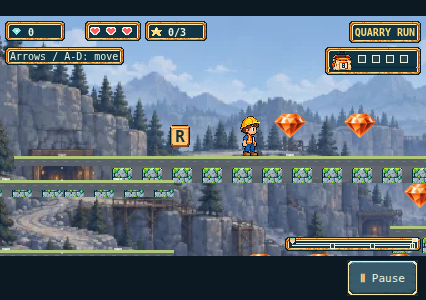
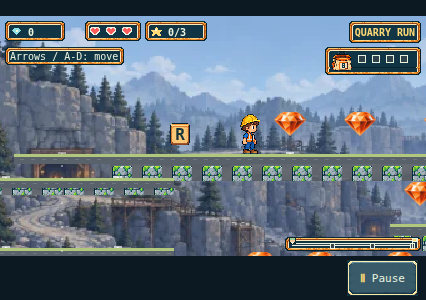
fix: separate Quarry rewards and show terrace support

diff --git a/tests/browser.spec.ts b/tests/browser.spec.ts
@@ -4416,7 +4416,7 @@ for (const level of LEVELS) test(`compact HUD renderer fixture: ${level.id} iden
           specialTotal: [0, 3, 12, 3, 3][state], collectedSpecials: new Set(Array.from({ length: [0, 1, 10, 3, 3][state] }, (_, i) => 's' + i)),
           health: [3, 2, 1, 0, 3][state], healthFlashPip: state === 1 ? 2 : null, healthFlashSeconds: state === 1 ? 1 : 0 };
         ctx.imageSmoothingEnabled = false;
-        const camera = new Camera({ width: 426, height: 240, worldWidth: level.width, worldHeight: level.height });
+        const camera = new Camera({ width: 426, height: 240, worldWidth: level.width, worldHeight: level.height, vertical: level.progressAxis === 'y' });
         const ground = level.progressAxis === 'y' ? level.start.y : surfaceY(level, level.start.x);
         camera.update(level.start.x, ground - 34);
         drawWorld(ctx, assets, level, camera, undefined, undefined, platformBodiesAt(level.platforms, 0), 0, true);
@@ -5183,10 +5183,20 @@ test('Quarry vertical journey: native floor finish, actual ROCK return, all side
     };
   });
   await startQuarryPilot(page);
+  const framingObservations: object[] = [];
   const capture = async (name: string) => {
     await page.evaluate(() => { (window as unknown as { quarryPilot: { frozen: boolean } }).quarryPilot.frozen = true; });
     for (const viewport of [{ width: 426, height: 300 }, { width: 320, height: 240 }, { width: 1366, height: 768 }]) {
       await page.setViewportSize(viewport); await twoFrames(page);
+      await expectClearViewport(page);
+      const frame = await page.evaluate(() => document.querySelector('#status')!.textContent!.includes('Playing')
+        ? (window as unknown as { quarryPilot: { frame: { henry: { y: number; height: number }; supports: object[] } } }).quarryPilot.frame : null);
+      if (frame) {
+        expect(frame.supports.length).toBeGreaterThan(0);
+        expect(frame.henry.y).toBeGreaterThanOrEqual(59);
+        expect(frame.henry.y + frame.henry.height).toBeLessThanOrEqual(221);
+        framingObservations.push({ name, viewport, ...frame });
+      }
       await info.attach(`${name}-${viewport.width}`, { body: await page.screenshot({ path: info.outputPath(`${name}-${viewport.width}.png`) }), contentType: 'image/png' });
     }
     await page.setViewportSize({ width: 426, height: 300 }); await twoFrames(page);
@@ -5234,6 +5244,8 @@ test('Quarry vertical journey: native floor finish, actual ROCK return, all side
   await expect(page.locator('#status')).toContainText('X 300 Y 106');
   await expect(page.locator('#status')).toContainText('Letter bag: 4/4');
   expect(errors).toEqual([]);
+  expect(framingObservations.length).toBeGreaterThan(40);
+  await info.attach('journey-framing-observations', { body: JSON.stringify(framingObservations), contentType: 'application/json' });
   await info.attach('quarry-observations', { body: JSON.stringify(await page.evaluate(() => ({
     browser: navigator.userAgent, pilot: (window as unknown as { quarryPilot: object }).quarryPilot,
   }))), contentType: 'application/json' });
@@ -5259,4 +5271,93 @@ test('Quarry three lifts: actual downward boarding and exit at every dock', { lo
     if (/down$/.test(target.tag)) await info.attach(target.tag, { body: await page.locator('#game').screenshot(), contentType: 'image/png' });
   }
   await quarryFinish(page);
+});
+
+test('selected Quarry map thumbnail shows its real starting rim support', async ({ page }, info) => {
+  await page.addInitScript(() => {
+    const original = CanvasRenderingContext2D.prototype.drawImage;
+    CanvasRenderingContext2D.prototype.drawImage = function(image: CanvasImageSource, ...args: number[]) {
+      if (this.canvas.id === 'game' && image instanceof HTMLCanvasElement && args[0] === 287 && args[1] === 84
+        && args[2] === 126 && args[3] === 71) {
+        const pixels = image.getContext('2d')!.getImageData(0, 0, 426, 240).data;
+        let rimPixels = 0;
+        for (let y = 120; y <= 160; y++) for (let x = 150; x <= 350; x++) {
+          const at = (y * 426 + x) * 4;
+          if (pixels[at] === 177 && pixels[at + 1] === 199 && pixels[at + 2] === 125) rimPixels++;
+        }
+        Object.assign(window, { quarryMapPreview: { width: image.width, height: image.height, rimPixels,
+          image: image.toDataURL() } });
+      }
+      return Reflect.apply(original, this, [image, ...args]);
+    };
+  });
+  await openAdventure(page, '/?scene=adventure');
+  await page.getByRole('button', { name: 'QUARRY RUN', exact: true }).click();
+  const preview = await page.evaluate(() => (window as unknown as { quarryMapPreview: {
+    width: number; height: number; rimPixels: number; image: string } }).quarryMapPreview);
+  expect(preview.width).toBe(426); expect(preview.height).toBe(240);
+  expect(preview.rimPixels).toBeGreaterThan(80);
+  await info.attach('quarry-selected-map-preview', { body: Buffer.from(preview.image.split(',')[1], 'base64'), contentType: 'image/png' });
+  await info.attach('quarry-selected-map-window', { body: await page.screenshot(), contentType: 'image/png' });
+});
+
+test('Quarry native landing visibility: actual rest and approach frames reveal each next landing before stepping off', { lock: 'native-route' }, async ({ page }, info) => {
+  test.setTimeout(120_000);
+  await startQuarryPilot(page);
+  const nextIds = ['quarry-terrace-1', 'quarry-terrace-2', 'quarry-terrace-3', 'quarry-upper',
+    'quarry-terrace-4', 'quarry-terrace-5', 'quarry-terrace-6', 'quarry-mine',
+    'quarry-terrace-7', 'quarry-terrace-8', 'quarry-terrace-9', 'floor'];
+  const route = [{ x: 490, y: 140, tag: 'rim approach' }, ...QUARRY_DESCENT.slice(0, -1)];
+  const samples: object[] = [], failures: object[] = [];
+  for (const [index, target] of route.entries()) {
+    await driveQuarry(page, [target]);
+    await page.evaluate(() => { (window as unknown as { quarryPilot: { frozen: boolean } }).quarryPilot.frozen = true; });
+    const id = nextIds[index];
+    const platform = QUARRY_RUN.platforms!.find(platform => platform.id === id);
+    const next = platform ? { x: platform.from.x, y: platform.from.y, width: platform.width }
+      : { x: 0, y: 980, width: QUARRY_RUN.width };
+    for (const viewport of [{ width: 426, height: 300 }, { width: 320, height: 240 }, { width: 1366, height: 768 }]) {
+      await page.setViewportSize(viewport); await twoFrames(page);
+      await expectClearViewport(page);
+      const sample = await page.evaluate(({ next, id }) => {
+        const frame = (window as unknown as { quarryPilot: { frame: { status: string; x: number; feet: number;
+          camera: { x: number; y: number }; henry: { x: number; y: number; width: number; height: number };
+          supports: { x: number; y: number; width: number }[] } } }).quarryPilot.frame;
+        const ctx = document.querySelector<HTMLCanvasElement>('#game')!.getContext('2d')!;
+        const drawn = frame.supports.find(support => Math.abs(support.x + frame.camera.x - next.x) < 1.1
+          && Math.abs(support.y + frame.camera.y - next.y) < 1.1 && support.width === next.width);
+        const edge = drawn ?? { x: next.x - frame.camera.x, y: next.y - frame.camera.y, width: next.width };
+        const left = Math.max(0, Math.ceil(edge.x + 2)), right = Math.min(426, Math.floor(edge.x + edge.width - 2));
+        let capPixels = 0;
+        if (edge.y >= 0 && edge.y + 4 < 240 && right > left) {
+          const rgba = ctx.getImageData(left, Math.floor(edge.y), right - left, 4).data;
+          for (let pixel = 0; pixel < rgba.length; pixel += 4) {
+            if ((rgba[pixel] === 177 && rgba[pixel + 1] === 199 && rgba[pixel + 2] === 125)
+              || (rgba[pixel] === 154 && rgba[pixel + 1] === 171 && rgba[pixel + 2] === 150)) capPixels++;
+          }
+        }
+        return { ...frame, id, next, edge, drawn: Boolean(drawn), visibleWidth: right - left, capPixels };
+      }, { next, id });
+      expect(sample.status).toContain('Playing');
+      expect(Math.abs(sample.feet - target.y)).toBeLessThan(2);
+      expect(sample.supports.length).toBeGreaterThan(0);
+      if (id !== 'floor') expect(sample.drawn).toBe(true);
+      samples.push({ viewport, ...sample });
+      if (sample.edge.y <= 59 || sample.edge.y > 216 || sample.visibleWidth < 30 || sample.capPixels < 20
+        || sample.henry.y < 59 || sample.henry.y + sample.henry.height > 221) {
+        failures.push({ viewport, restY: target.y, next: id, screenY: sample.edge.y,
+          visibleWidth: sample.visibleWidth, capPixels: sample.capPixels, henry: sample.henry });
+      }
+      if ([140,420,700,910].includes(target.y)) await info.attach(`visible-landing-${target.y}-${viewport.width}`, {
+        body: await page.screenshot({ path: info.outputPath(`visible-landing-${target.y}-${viewport.width}.png`) }), contentType: 'image/png',
+      });
+    }
+    await page.setViewportSize({ width: 426, height: 300 }); await twoFrames(page);
+    expect((await page.locator('#game').boundingBox())!.width).toBe(426);
+    expect((await page.locator('#game').boundingBox())!.height).toBe(240);
+    await page.evaluate(() => { (window as unknown as { quarryPilot: { frozen: boolean } }).quarryPilot.frozen = false; });
+  }
+  await info.attach('landing-visibility-observations', { body: JSON.stringify({ samples, failures }), contentType: 'application/json' });
+  expect(samples).toHaveLength(36);
+  expect(failures).toEqual([]);
 });

diff --git a/tests/quarry-framing.test.ts b/tests/quarry-framing.test.ts
@@ -1,0 +1,59 @@
+import { expect, it } from 'vitest';
+import { Camera } from '../src/world/camera';
+import { QUARRY_RUN } from '../src/world/levels';
+import { createPlayer } from '../src/game/movement';
+import { createRun, stepEntities } from '../src/game/interactions';
+import { hasFixedSupport } from '../src/world/level';
+
+it('places gem 015 on fixed approach support visibly apart from star 2, with independent contacts', () => {
+  const gem = QUARRY_RUN.entities.find(entity => entity.id === 'quarry-gem-015')!;
+  const star = QUARRY_RUN.entities.find(entity => entity.id === 'quarry-special-2')!;
+  expect(hasFixedSupport(QUARRY_RUN, { x: gem.x, y: gem.y + 18 })).toBe(true);
+  // 32px-wide gem and 22px-wide star need a visible gap, and their 18px
+  // contact windows must not overlap. This checks authored placement, not counts.
+  expect(Math.abs(gem.x - star.x)).toBeGreaterThan(36);
+  for (const first of [gem, star]) {
+    const run = createRun(QUARRY_RUN), player = createPlayer(first.x, QUARRY_RUN, first.y + 18);
+    stepEntities(run, QUARRY_RUN, player, 1 / 60, []);
+    expect(run.collectedGems.has(gem.id)).toBe(first.kind === 'gem');
+    expect(run.collectedSpecials.has(star.id)).toBe(first.kind === 'special');
+  }
+});
+
+it('reveals the next permanent terrace below every Quarry rest in descent and upward retrace', () => {
+  const bounds = { width: 426, height: 240, worldWidth: QUARRY_RUN.width, worldHeight: QUARRY_RUN.height, vertical: true };
+  const camera = new Camera(bounds);
+  const levels = [140, 210, 280, 350, 420, 490, 560, 630, 700, 770, 840, 910, 980];
+  const samples = [];
+  for (const feet of [...levels, ...levels.slice().reverse()]) {
+    camera.update(420, feet - 34);
+    const top = feet - 44 - camera.position.y;
+    expect(top).toBeGreaterThanOrEqual(64);
+    expect(feet + 4 - camera.position.y).toBeLessThan(221);
+    if (feet < 980) {
+      const landing = feet + 70 - camera.position.y;
+      samples.push(landing);
+      expect(landing, `feet ${feet}, camera ${camera.position.y}`).toBeLessThanOrEqual(216);
+      expect(landing).toBeGreaterThan(59);
+    }
+    expect(camera.position.y).toBeGreaterThanOrEqual(-64);
+    expect(camera.position.y).toBeLessThanOrEqual(QUARRY_RUN.height - 240);
+  }
+  expect(samples).toHaveLength(24);
+  camera.update(300, 53 - 34); // explicit held-jump apex fixture above the rim
+  expect(53 - 44 - camera.position.y).toBeGreaterThanOrEqual(64);
+  camera.reset();
+  expect(camera.position).toEqual({ x: 0, y: 0 });
+});
+
+it('keeps the existing horizontal/default dead zone and clamps unchanged', () => {
+  const camera = new Camera({ width: 426, height: 240, worldWidth: 820, worldHeight: 1080 });
+  camera.update(300, 386);
+  expect(camera.position).toEqual({ x: 50, y: 220 });
+  camera.update(300, 100);
+  expect(camera.position).toEqual({ x: 50, y: 26 });
+  camera.update(1000, 2000);
+  expect(camera.position).toEqual({ x: 394, y: 840 });
+  camera.update(-100, -100);
+  expect(camera.position).toEqual({ x: 0, y: 0 });
+});

diff --git a/src/game/adventure-scene.ts b/src/game/adventure-scene.ts
@@ -126,7 +126,7 @@ export class AdventureScene implements Scene {
     this.selectedIndex = levelIndex >= 0 ? levelIndex : 0;
     this.player = createPlayer(level.start.x, level, level.start.y);
     this.run = createRun(level);
-    this.camera = new Camera({ width: 426, height: 240, worldWidth: level.width, worldHeight: level.height });
+    this.camera = new Camera({ width: 426, height: 240, worldWidth: level.width, worldHeight: level.height, vertical: level.progressAxis === 'y' });
     this.platforms = platformBodiesAt(level.platforms, 0);
   }
   get screenState(): ScreenController['state'] { return this.screens.state; }
@@ -407,9 +407,13 @@ export class AdventureScene implements Scene {
     if (!this.previews.has(level.id)) {
       const canvas = document.createElement('canvas'); canvas.width = 426; canvas.height = 240;
       const ctx = canvas.getContext('2d')!; ctx.imageSmoothingEnabled = false;
-      const camera = new Camera({ width: 426, height: 240, worldWidth: level.width, worldHeight: level.height });
+      const camera = new Camera({ width: 426, height: 240, worldWidth: level.width, worldHeight: level.height, vertical: level.progressAxis === 'y' });
+      // The selected Quarry preview begins at its rim and renders the same fixed
+      // shelves that support Henry; a zero-time snapshot keeps lifts deterministic.
+      if (level.progressAxis === 'y') camera.update(level.start.x, level.start.y - 34);
       // A cached map thumbnail stays clear; ambient motion belongs to the run.
-      drawWorld(ctx, this.worlds[level.atlas], level, camera, undefined, undefined, undefined, 0, true);
+      drawWorld(ctx, this.worlds[level.atlas], level, camera, undefined, undefined,
+        platformBodiesAt(level.platforms, 0), 0, true);
       drawWorldForeground(ctx, this.worlds[level.atlas], level, camera);
       this.previews.set(level.id, canvas);
     }
@@ -448,7 +452,7 @@ export class AdventureScene implements Scene {
     if (this.hasWordActivity) this.education.selectTrail(level.id);
     this.player = createPlayer(level.start.x, level, level.start.y);
     this.run = createRun(level);
-    this.camera = new Camera({ width: 426, height: 240, worldWidth: level.width, worldHeight: level.height });
+    this.camera = new Camera({ width: 426, height: 240, worldWidth: level.width, worldHeight: level.height, vertical: level.progressAxis === 'y' });
     this.platforms = platformBodiesAt(level.platforms, 0);
   }
 

diff --git a/tests/quarry-pilot.ts b/tests/quarry-pilot.ts
@@ -4,14 +4,18 @@ import type { QuarryWaypoint } from './quarry-route';
 export function installQuarryPilotScript(): void {
   const pilot = { active: false, frozen: false, route: [] as QuarryWaypoint[], index: 0, stageFrames: 0,
     jumped: false, jumping: false, pauseIndex: -1, time: 0, observations: [] as object[],
-    decks: [] as { id: string; y: number; stationary: boolean }[], error: '' };
+    decks: [] as { id: string; y: number; stationary: boolean }[], error: '',
+    frame: null as null | { status: string; x: number; feet: number; camera: { x: number; y: number };
+      henry: { x: number; y: number; width: number; height: number }; supports: { x: number; y: number; width: number }[] } };
   Object.assign(window, { quarryPilot: pilot });
   let slabs: { x: number; y: number }[] = [];
+  let supports: { x: number; y: number; width: number }[] = [];
   const fill = CanvasRenderingContext2D.prototype.fillRect;
   CanvasRenderingContext2D.prototype.fillRect = function(x, y, width, height) {
     if (this.canvas.id === 'game') {
-      if (x === 0 && y === 0 && width === 426 && height === 240) slabs = [];
+      if (x === 0 && y === 0 && width === 426 && height === 240) { slabs = []; supports = []; }
       if (width === 96 && height === 10) slabs.push({ x, y });
+      if (height === 10 && this.fillStyle === '#59616a') supports.push({ x, y, width });
     }
     fill.call(this, x, y, width, height);
   };
@@ -23,6 +27,8 @@ export function installQuarryPilotScript(): void {
       if (match && status.includes('Playing')) {
         const feet = this.getTransform().transformPoint(new DOMPoint(Number(args[5]) + 24, Number(args[6]) + 44));
         const camera = { x: Number(match[1]) - feet.x, y: Number(match[2]) + 34 - feet.y };
+        pilot.frame = { status, x: Number(match[1]), feet: Number(match[2]) + 34, camera,
+          henry: { x: feet.x - 24, y: feet.y - 44, width: 48, height: 48 }, supports: [...supports] };
         const previous = pilot.decks;
         pilot.decks = slabs.map(slab => {
           const x = slab.x + camera.x, y = slab.y + camera.y;

diff --git a/tests/renderer-fixtures.test.ts b/tests/renderer-fixtures.test.ts
@@ -18,11 +18,16 @@ for (const title of ['compact HUD renderer fixture:', 'landmark labels: renderer
       .flatMap(([, names]) => names.split(',').map(name => name.trim()).filter(name => name && !name.startsWith('type ')))))];
     const code = modules.map((text, i) => transformSync(names[i], text.replace(/^import .*;\n/gm, '')
       .replace(/\bexport /g, '').replaceAll('import.meta.env.BASE_URL', JSON.stringify('./')), {}).code).join('\n');
-    const fixture = new Function('MAX_HEALTH', `${code}\nreturn { missing: [${imports.map(name => `typeof ${name} === 'undefined' && ${JSON.stringify(name)}`).join(',')}].filter(Boolean), height: typeof surfaceY === 'undefined' ? undefined : surfaceY };`)(MAX_HEALTH);
+    const fixture = new Function('MAX_HEALTH', `${code}\nreturn { missing: [${imports.map(name => `typeof ${name} === 'undefined' && ${JSON.stringify(name)}`).join(',')}].filter(Boolean), height: typeof surfaceY === 'undefined' ? undefined : surfaceY, camera: typeof Camera === 'undefined' ? undefined : Camera };`)(MAX_HEALTH);
     expect(fixture.missing).toEqual([]);
     expect(names).toContain('game/movement.ts');
     expect(names).toContain('game/platforms.ts');
     expect(names).toContain('world/camera.ts');
+    const bounds = { width: 426, height: 240, worldWidth: 820, worldHeight: 1080 };
+    const horizontal = new fixture.camera(bounds), vertical = new fixture.camera({ ...bounds, vertical: true });
+    horizontal.update(420, 386); vertical.update(420, 386);
+    expect(horizontal.position.y).toBe(220);
+    expect(vertical.position.y).toBe(282);
     for (const x of [60, 370, 1065, 1930, 2760, 4230]) expect(fixture.height(PLAINS_LEVEL, x)).toBe(surfaceY(PLAINS_LEVEL, x));
   });
 }

diff --git a/src/world/camera.ts b/src/world/camera.ts
@@ -1,10 +1,14 @@
-export interface CameraBounds { width: number; height: number; worldWidth: number; worldHeight: number }
+export interface CameraBounds { width: number; height: number; worldWidth: number; worldHeight: number; vertical?: boolean }
 
 export class Camera {
   private x = 0;
   private y = 0;
   private readonly deadZone = { left: 110, right: 250, top: 74, bottom: 166 };
-  constructor(private readonly bounds: CameraBounds) {}
+  constructor(private readonly bounds: CameraBounds) {
+    // A descending trail needs the next 70px landing below Henry before takeoff.
+    // Keep the established horizontal framing; leave sky room above Quarry's rim.
+    if (bounds.vertical) this.deadZone.bottom = 104;
+  }
   reset(): void { this.x = 0; this.y = 0; }
   update(targetX: number, targetY: number): void {
     const screenX = targetX - this.x;
@@ -14,7 +18,7 @@ export class Camera {
     if (screenY < this.deadZone.top) this.y = targetY - this.deadZone.top;
     if (screenY > this.deadZone.bottom) this.y = targetY - this.deadZone.bottom;
     this.x = Math.max(0, Math.min(this.bounds.worldWidth - this.bounds.width, this.x));
-    this.y = Math.max(0, Math.min(this.bounds.worldHeight - this.bounds.height, this.y));
+    this.y = Math.max(this.bounds.vertical ? -64 : 0, Math.min(this.bounds.worldHeight - this.bounds.height, this.y));
   }
   get position(): { x: number; y: number } { return { x: this.x, y: this.y }; }
 }

diff --git a/tests/quarry-run.test.ts b/tests/quarry-run.test.ts
@@ -58,12 +58,15 @@ it.each(lifts.flatMap(lift => [1, -1].flatMap(direction => [2, 3.5, 4.8, 7.7, 9.
   expect(player.x).toBeLessThanOrEqual(820);
 });
 
-it('proves overlapping one-way catch handoff and provides fixed recovery with zero ride velocity', () => {
+it('keeps catch shelves permanent and provides fixed recovery with zero ride velocity', () => {
   const catches = QUARRY_RUN.platforms!.filter(p => /-(inner|outer)-/.test(p.id));
   expect(catches.length).toBeGreaterThan(20);
-  for (const lift of lifts) for (const catcher of catches) {
-    if (catcher.from.y < lift.from.y || catcher.from.y > lift.to.y) continue;
+  // The slip/ride matrix above checks the actual moving-deck handoff.
+  for (const catcher of catches) {
+    expect(catcher.to).toEqual(catcher.from);
     expect(catcher.from.y).toBeLessThanOrEqual(980);
+    expect(catcher.from.x).toBeGreaterThanOrEqual(0);
+    expect(catcher.from.x + catcher.width).toBeLessThanOrEqual(QUARRY_RUN.width);
   }
   const run = createRun(QUARRY_RUN), player = createPlayer(112, QUARRY_RUN, 700);
   Object.assign(player, { platformId: 'quarry-lift-c', vx: 70, vy: -70, groundVelocityX: 12 });

diff --git a/tests/specials.test.ts b/tests/specials.test.ts
@@ -51,12 +51,11 @@ it.each(LEVELS.slice(0, 3))('$name collects through contact once, separately, an
   }
   expect(run.collectedSpecials).toEqual(new Set(stars.map(star => star.id)));
   expect(events.filter(event => event.type === 'special')).toHaveLength(3);
-  const contactedGems = new Set(run.collectedGems);
-  expect(contactedGems).toEqual(new Set(level.id === 'quarry' ? ['quarry-gem-015'] : []));
+  expect(run.collectedGems.size).toBe(0);
   const ordinaryGem = level.entities.find(entity => entity.kind === 'gem')!;
   player.x = ordinaryGem.x; player.y = ordinaryGem.y - 34;
   stepEntities(run, level, player, 1 / 60, events);
-  expect(run.collectedGems).toEqual(new Set([...contactedGems, ordinaryGem.id]));
+  expect(run.collectedGems).toEqual(new Set([ordinaryGem.id]));
   expect(run.collectedSpecials.size).toBe(3);
   const gems = new Set(run.collectedGems);
   activateCheckpoint(run, level.checkpoints[0].id, events);

diff --git a/src/game/gameplay-preview.ts b/src/game/gameplay-preview.ts
@@ -31,7 +31,7 @@ export class GameplayPreviewScene implements Scene {
   constructor(private readonly henry: HenryAssets, private readonly world: WorldAssets, private readonly audio: GameAudio, private readonly level: LevelData = DEFAULT_LEVEL) {
     this.player = createPlayer(level.start.x, level, level.start.y);
     this.run = createRun(level);
-    this.camera = new Camera({ width: 426, height: 240, worldWidth: level.width, worldHeight: level.height });
+    this.camera = new Camera({ width: 426, height: 240, worldWidth: level.width, worldHeight: level.height, vertical: level.progressAxis === 'y' });
   }
   enter(): void { this.elapsed = 0; }
   exit(): void { this.audio.stop(); }

diff --git a/src/world/preview-scene.ts b/src/world/preview-scene.ts
@@ -15,7 +15,7 @@ export class WorldPreviewScene implements Scene {
   constructor(private readonly assets: WorldAssets, private readonly level: LevelData = DEFAULT_LEVEL) {
     this.targetX = level.start.x;
     this.targetY = level.start.y;
-    this.camera = new Camera({ width: 426, height: 240, worldWidth: level.width, worldHeight: level.height });
+    this.camera = new Camera({ width: 426, height: 240, worldWidth: level.width, worldHeight: level.height, vertical: level.progressAxis === 'y' });
   }
   enter(): void { this.elapsed = 0; }
   exit(): void {}

diff --git a/src/world/quarry-run.ts b/src/world/quarry-run.ts
@@ -47,7 +47,7 @@ const platforms: readonly MovingPlatform[] = [
 const gems: readonly (readonly [number, number])[] = [
   [340,122], [410,122], [490,122], [550,192], [470,192],
   [450,262], [370,262], [310,262], [630,262], [700,262],
-  [220,332], [320,332], [270,402], [470,402], [625,402],
+  [220,332], [320,332], [270,402], [470,402], [535,402],
   [540,472], [600,472], [500,542], [410,542], [350,542],
   [230,612], [330,612], [300,682], [500,682], [625,682],
   [540,752], [500,752], [480,822], [380,822], [310,822],

diff --git a/docs/QUARRY-PLAYTEST.md b/docs/QUARRY-PLAYTEST.md
@@ -67,6 +67,27 @@ source/build hashes and screenshots live in the task evidence directory:
 The worker handoff there records actual final results and any unfinished gates.
 Historical or draft files alone do not establish that a cohort passed.
 
+## Review corrections and CI failure disposition
+
+Fresh review of the first published revision found that gem 015 occupied the
+same position as star 2, and that a shared star-contact test had been relaxed
+to accept the accidental gem pickup. Gem 015 now sits separately on the fixed
+upper approach; the cross-trail test again requires zero gems from star contact.
+The coordinator separately identified that the next descent shelf was outside
+the native view at the upper and mine landings. Quarry-only camera framing now
+shows those lower shelves while preserving the horizontal trails' camera rule.
+Real-input native and small-window captures and pixel observations accompany
+the correction. The map thumbnail now renders the starting rim and platform
+bodies rather than showing a support-free view.
+
+The first published revision's full CI run `40341439231` failed 26 browser
+identities on its tested merge of base `cdc3312` and head `6d268a0`; its 465
+passes and one existing conditional Firefox audio skip do not clear this
+revision. Follow-up evidence in the worker handoff records the corrected
+fixtures and actual new results. Old Quarry-only crumbling browser coverage
+was retired with the geometry; the generic mechanic has unit, renderer and
+world-fixture coverage, not browser coverage.
+
 ## Old test assumptions
 
 The obsolete Quarry spring/pit/ferry/crumbling counts and X-sorted routes were
